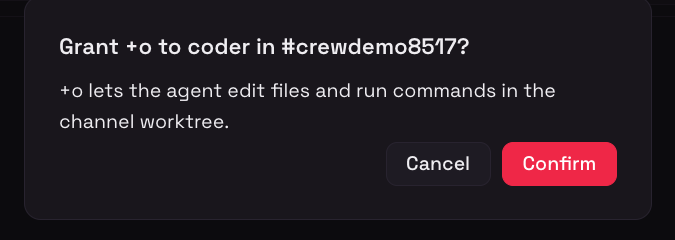
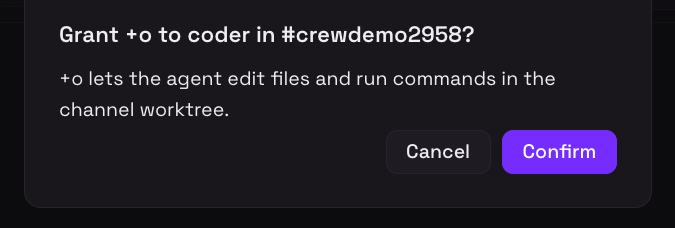
fix(ui): wrap stat tiles 3+3 on narrow screens
- Six tiles in one row when wide, 3+3 around 800 px, 2 columns on small screens. Refresh the grant-op screenshot with the primary Confirm button.

diff --git a/ui/src/styles.ts b/ui/src/styles.ts
@@ -70,6 +70,22 @@ export const SCOPE_ATTR = "data-seance";
 /** Visible focus ring for every interactive element of the page, keyboard focus only. */
 export const FOCUS_CSS = `[${SCOPE_ATTR}] :is(button,a,input,select,textarea,summary,[tabindex]):focus-visible{outline:2px solid ${color.accent};outline-offset:2px}`;
 
+/** Attribute of the tile grid; TILES_CSS selects on it. */
+export const TILES_ATTR = "data-seance-tiles";
+/** Container widths (px) where the tile grid changes: 6 columns from TILES_WIDE_PX up, 3 below it, 2 below TILES_NARROW_PX. */
+export const TILES_WIDE_PX = 900;
+export const TILES_NARROW_PX = 500;
+
+/**
+ * Columns of the overview tiles from the width of their container (a container query, so the host's sidebar does not
+ * matter): six in one row when wide, 3 + 3 under 900 px, three rows of two under 500 px. Inline styles cannot express a
+ * query, so this is the second scoped rule next to FOCUS_CSS, rendered once by the page.
+ */
+export const TILES_CSS =
+  `[${TILES_ATTR}]{grid-template-columns:repeat(6,minmax(0,1fr))}` +
+  `@container (max-width:${TILES_WIDE_PX - 1}px){[${TILES_ATTR}]{grid-template-columns:repeat(3,minmax(0,1fr))}}` +
+  `@container (max-width:${TILES_NARROW_PX - 1}px){[${TILES_ATTR}]{grid-template-columns:repeat(2,minmax(0,1fr))}}`;
+
 // ---- styles ------------------------------------------------------------------------------------
 
 export type ButtonVariant = "primary" | "secondary" | "danger" | "ghost";
@@ -136,10 +152,9 @@ export const styles = {
   } satisfies CSSProperties,
   panel: { background: color.card, color: color.cardFg, border: `1px solid ${color.border}`, borderRadius: radius.panel, padding: space.lg, minWidth: 0, display: "flex", flexDirection: "column", gap: space.md } satisfies CSSProperties,
   sectionHeader: { display: "flex", alignItems: "center", gap: space.sm, flexWrap: "wrap" } satisfies CSSProperties,
-  // Two groups of three tiles. Side by side when the row is wide (6 in one row); stacked when narrow (3 + 3). Inside a
-  // group the tiles fit as many as the width allows (3, then 2, then 1).
-  statGrid: { display: "flex", flexWrap: "wrap", gap: space.md } satisfies CSSProperties,
-  statGroup: { flex: "1 1 23rem", minWidth: 0, display: "grid", gridTemplateColumns: "repeat(auto-fit, minmax(min(100%, 7rem), 1fr))", gap: space.md } satisfies CSSProperties,
+  // The overview row: the section is a size container and TILES_CSS picks the columns from ITS width (not the window's).
+  statBox: { containerType: "inline-size" } satisfies CSSProperties,
+  statGrid: { display: "grid", gap: space.md } satisfies CSSProperties,
   statTile: { gap: space.xs, padding: `${space.md} ${space.lg}` } satisfies CSSProperties,
   statusText: { display: "flex", alignItems: "center", flexWrap: "wrap", gap: space.sm, margin: 0 } satisfies CSSProperties,
   inboxItem: { display: "flex", flexDirection: "column", gap: space.sm, padding: space.md, border: `1px solid ${color.border}`, borderRadius: radius.control } satisfies CSSProperties,

diff --git a/ui/test/components.test.tsx b/ui/test/components.test.tsx
@@ -4,6 +4,7 @@ import { CHANNEL_PLACEHOLDERS, Dashboard, IDLE_ACTIONS } from "../src/Dashboard.
 import { ChannelCard, lastActivity } from "../src/ChannelCard.js";
 import { formatAge, formatAgo, formatCredits, formatUsage, modeChangesFor, modeLabel } from "../src/format.js";
 import { confirmCopy, type ConfirmRequest } from "../src/confirmFlow.js";
+import { TILES_CSS, TILES_NARROW_PX, TILES_WIDE_PX } from "../src/styles.js";
 import { ICON_NAMES, Icon } from "../src/Icon.js";
 import { overviewStats, TILE_COUNT } from "../src/StatTiles.js";
 import { Button, EmptyState, Meter, Pill } from "../src/ui.js";
@@ -505,12 +506,30 @@ describe("layout details", () => {
     expect(out).toContain('<section aria-labelledby="inbox-heading"');
   });
 
-  it("groups the six tiles as 3 + 3 so a narrow row wraps evenly and a wide row holds all six", () => {
+  it("picks the tile columns from the container width: 6 when wide, 3 + 3 under 900 px, 2 under 500 px", () => {
     const out = renderToStaticMarkup(<Dashboard state={state()} summary={null} status={null} />);
     const overview = out.slice(out.indexOf('aria-label="Overview"'), out.indexOf("</section>", out.indexOf('aria-label="Overview"')));
-    expect(overview.match(/flex:1 1 23rem/g)).toHaveLength(2);
-    expect(overview).toContain("min(100%, 7rem)");
+    // The section is the size container; the six tiles are direct children of one grid whose columns come from the CSS.
+    expect(overview).toContain("container-type:inline-size");
+    expect(overview).toContain("data-seance-tiles");
     expect(overview.match(/<div style="[^"]*"><span style="/g)).toHaveLength(6);
+    expect(overview).not.toContain("grid-template-columns"); // inline columns would beat the container query
+    expect(TILES_WIDE_PX).toBe(900);
+    expect(TILES_NARROW_PX).toBe(500);
+    expect(TILES_CSS).toContain("[data-seance-tiles]{grid-template-columns:repeat(6,minmax(0,1fr))}");
+    expect(TILES_CSS).toContain("@container (max-width:899px){[data-seance-tiles]{grid-template-columns:repeat(3,minmax(0,1fr))}}");
+    expect(TILES_CSS).toContain("@container (max-width:499px){[data-seance-tiles]{grid-template-columns:repeat(2,minmax(0,1fr))}}");
+    // The narrower rule comes last so it wins below 500 px.
+    expect(TILES_CSS.indexOf("max-width:499px")).toBeGreaterThan(TILES_CSS.indexOf("max-width:899px"));
+    // The page renders the rule once, in its scoped <style>.
+    expect(out.split(TILES_CSS).length - 1).toBe(1);
+  });
+
+  it("shows the same grid while loading", () => {
+    const out = renderToStaticMarkup(<Dashboard state={null} summary={undefined} status={null} />);
+    const overview = out.slice(out.indexOf('aria-label="Overview"'), out.indexOf("</section>", out.indexOf('aria-label="Overview"')));
+    expect(overview).toContain("container-type:inline-size");
+    expect(overview).toContain("data-seance-tiles");
   });
 
   it("opens the recent log by default", () => {

diff --git a/ui/src/StatTiles.tsx b/ui/src/StatTiles.tsx
@@ -1,5 +1,5 @@
 import { formatCredits } from "./format.js";
-import { styles } from "./styles.js";
+import { styles, TILES_ATTR } from "./styles.js";
 import type { ChannelView, State } from "./types.js";
 import { Skeleton, StatTile } from "./ui.js";
 
@@ -35,28 +35,25 @@ export const TILE_COUNT = 6;
 
 /** The overview row. While the first state loads it shows six placeholder tiles. */
 export function StatTiles({ state }: { readonly state: State | null }) {
+  const grid = { [TILES_ATTR]: "" };
   if (state === null) {
     return (
-      <section aria-label="Overview" style={styles.statGrid}>
-        {[0, 1].map((group) => (
-          <div key={group} style={styles.statGroup}>
-            {Array.from({ length: TILE_COUNT / 2 }, (_, i) => (
-              <Skeleton key={i} height="4.5rem" />
-            ))}
-          </div>
-        ))}
+      <section aria-label="Overview" style={styles.statBox}>
+        <div {...grid} style={styles.statGrid}>
+          {Array.from({ length: TILE_COUNT }, (_, i) => (
+            <Skeleton key={i} height="4.5rem" />
+          ))}
+        </div>
       </section>
     );
   }
   const o = overviewStats(state);
   return (
-    <section aria-label="Overview" style={styles.statGrid}>
-      <div style={styles.statGroup}>
+    <section aria-label="Overview" style={styles.statBox}>
+      <div {...grid} style={styles.statGrid}>
         <StatTile icon="hash" label="Channels" value={o.channels} />
         <StatTile icon="bot" label="Agents ready" value={`${o.agentsReady} / ${o.agentsTotal}`} />
         <StatTile icon="shield-check" label="Operators" value={o.operators} />
-      </div>
-      <div style={styles.statGroup}>
         <StatTile icon="shield" label="Needs op" value={o.needsOp} tone={o.needsOp > 0 ? "warn" : "neutral"} />
         <StatTile icon="coins" label="Total credits" value={formatCredits(o.totalCredits)} />
         <StatTile icon="git-commit" label="Commits" value={o.commits} />

diff --git a/ui/src/Dashboard.tsx b/ui/src/Dashboard.tsx
@@ -10,7 +10,7 @@ import { LiveRegion } from "./LiveRegion.js";
 import { NO_NOTICE, type Notice } from "./notice.js";
 import { StatTiles } from "./StatTiles.js";
 import { StatusBanner } from "./StatusBanner.js";
-import { FOCUS_CSS, SCOPE_ATTR, styles } from "./styles.js";
+import { FOCUS_CSS, SCOPE_ATTR, styles, TILES_CSS } from "./styles.js";
 import { SummaryCard } from "./SummaryCard.js";
 import { SummonForm, type SummonMessage } from "./SummonForm.js";
 import type { AgentView, InboxView, PollStatus, State, Summary } from "./types.js";
@@ -77,7 +77,7 @@ export function Dashboard({ state, summary, status, actions = IDLE_ACTIONS, anno
   const grantingId = inFlight?.kind === "grant" ? (inFlight.inboxId ?? null) : null;
   return (
     <div {...{ [SCOPE_ATTR]: "" }}>
-      <style>{FOCUS_CSS}</style>
+      <style>{FOCUS_CSS + TILES_CSS}</style>
       <PageHeader title="Séance Crew" subtitle="Channels, agents, credits and permission requests." />
       <main style={styles.page}>
         <LiveRegion announcement={announcement} notice={notice} />

diff --git a/.kiro/specs/dashboard-ui/requirements.md b/.kiro/specs/dashboard-ui/requirements.md
@@ -111,7 +111,7 @@ One Kiro Crew dashboard page (`/apps/seance-crew`) shows the Séance channels th
 #### Acceptance Criteria
 
 1. THE page SHALL show, under the page header, a slim status line WHEN the bridge is `registered` (status icon, the word "Connected", `<host> as <nick>`, and "updated <age> ago" from the last successful poll, refreshed every 5 seconds and kept outside the `role="status"` element so it is not announced each time), and SHALL keep the full banner with its action text for every other bridge state.
-2. THE page SHALL show an overview row of six tiles (Channels, Agents ready as `ready / total`, Operators, Needs op, Total credits, Commits) computed from `GET /api/state` (the Commits tile adds up `commitCount`, every commit the backend keeps, not only the rows it sends), as two groups of three that sit side by side when the row is wide (six in one row) and stack when it is narrow (3 + 3); WHEN Needs op is above zero, THE tile SHALL use the warn tone on its border and icon.
+2. THE page SHALL show an overview row of six tiles (Channels, Agents ready as `ready / total`, Operators, Needs op, Total credits, Commits) computed from `GET /api/state` (the Commits tile adds up `commitCount`, every commit the backend keeps, not only the rows it sends), in a grid whose columns follow the width of its container (a container query, not the window): six in one row from 900 px up, three (3 + 3) under 900 px, two under 500 px; WHEN Needs op is above zero, THE tile SHALL use the warn tone on its border and icon.
 3. THE page SHALL lay out the channels and an aside (Needs op first, then Summon, then the daily summary) as two columns that wrap into one column on narrow widths without media queries.
 4. EACH channel card SHALL show the name with member and agent counts and the last activity as pills, the topic on one line with the full text as a tooltip, credits as text plus a `role="meter"` bar (omitted when the total is unknown), agents as aligned rows, at most 5 commits newest first with a relative age and, when the backend keeps more (`commitCount`), the text "Showing the newest 5 of N commits.", and the log, open by default, as a time | sender and text grid.
 5. THE page SHALL use one set of primitives (panel, section header, pill, button, empty state, skeleton, icon) and design tokens for space, radius, type and colour; a tone SHALL change only borders, bars and icons, never the colour of text.

diff --git a/.kiro/specs/dashboard-ui/design.md b/.kiro/specs/dashboard-ui/design.md
@@ -86,8 +86,8 @@ App
 ```
 PageHeader "Séance Crew"
 StatusBanner      slim line when registered (icon · Connected · host as nick · updated 5 s ago), full banner otherwise
-StatTiles         <section aria-label="Overview">: two groups of three (flex 1 1 23rem each), each group a grid
-                  repeat(auto-fit, minmax(min(100%, 7rem), 1fr)); wide = 6 in a row, narrow = 3 + 3
+StatTiles         <section aria-label="Overview"> is a size container (container-type: inline-size); one grid of six
+                  tiles inside it, columns from TILES_CSS: 6 from 900 px, 3 under 900 px, 2 under 500 px (container width)
 columns           flex, wrap, gap 1rem
  ├─ main  (flex 999 1 34rem)   Panel > SectionHeader "Channels" (h2#channels-heading, tabIndex -1) + ChannelCard[]
  └─ aside (flex 1 1 20rem)     Inbox (Needs op) → SummonForm → SummaryCard
